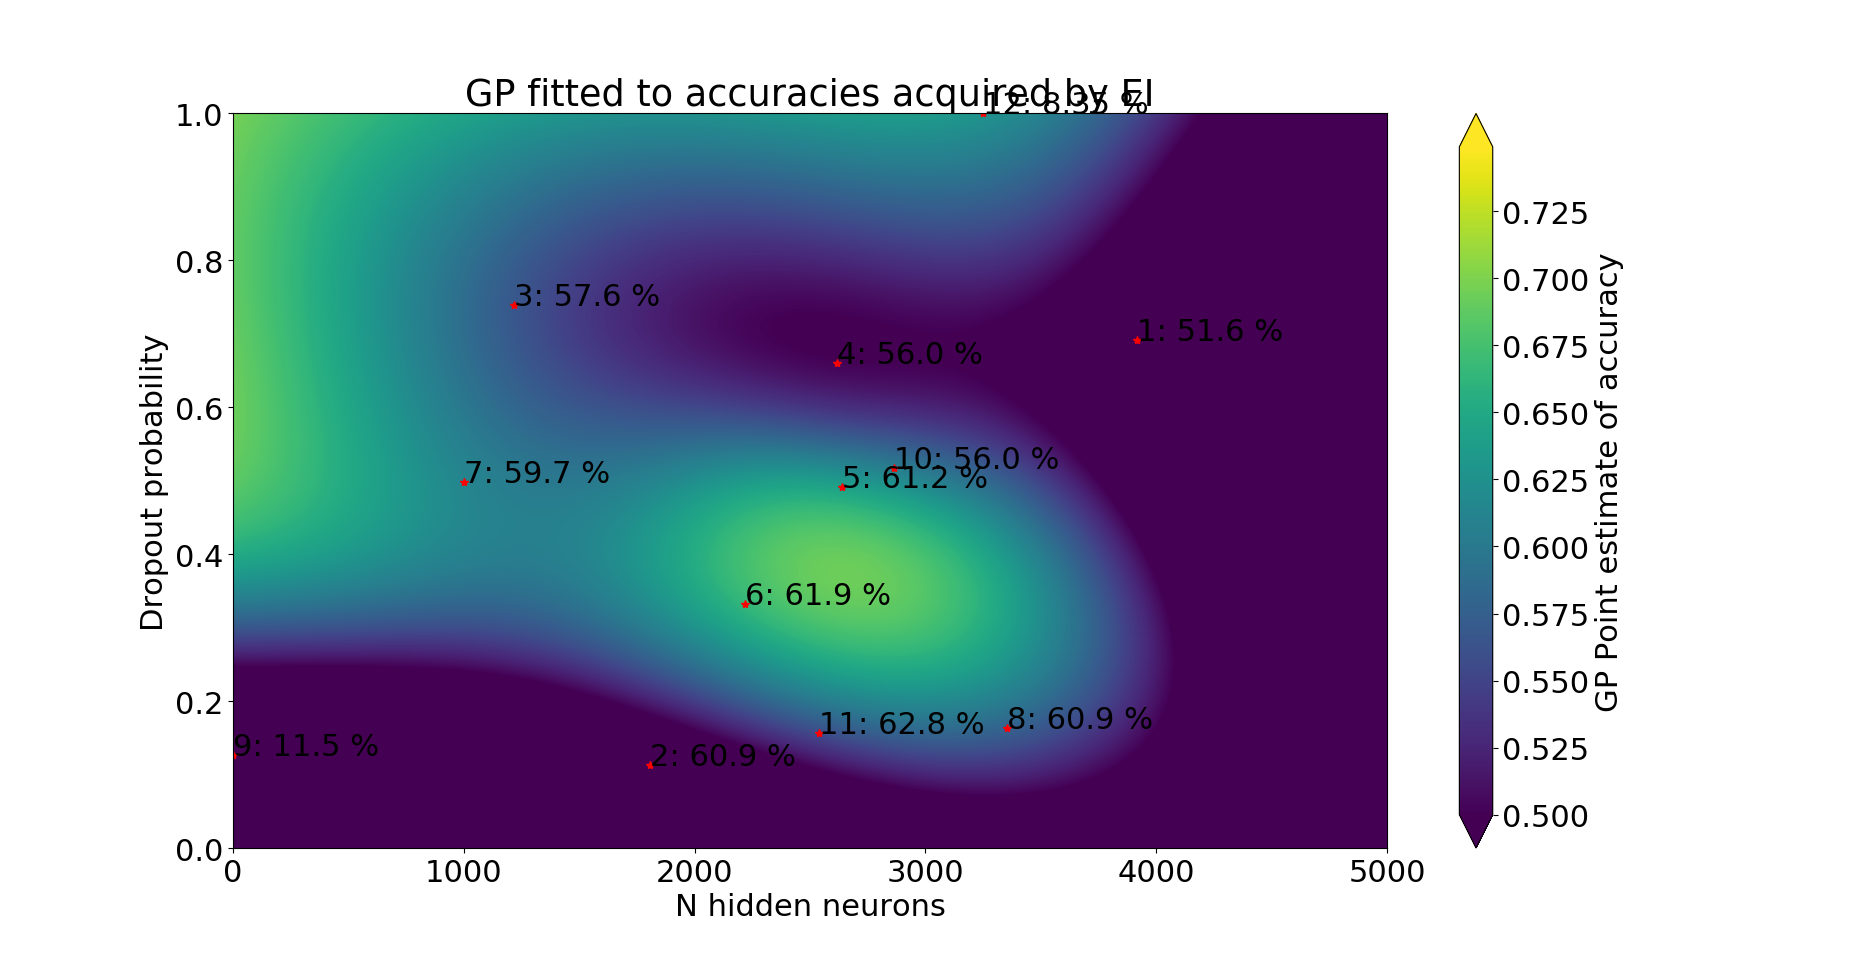
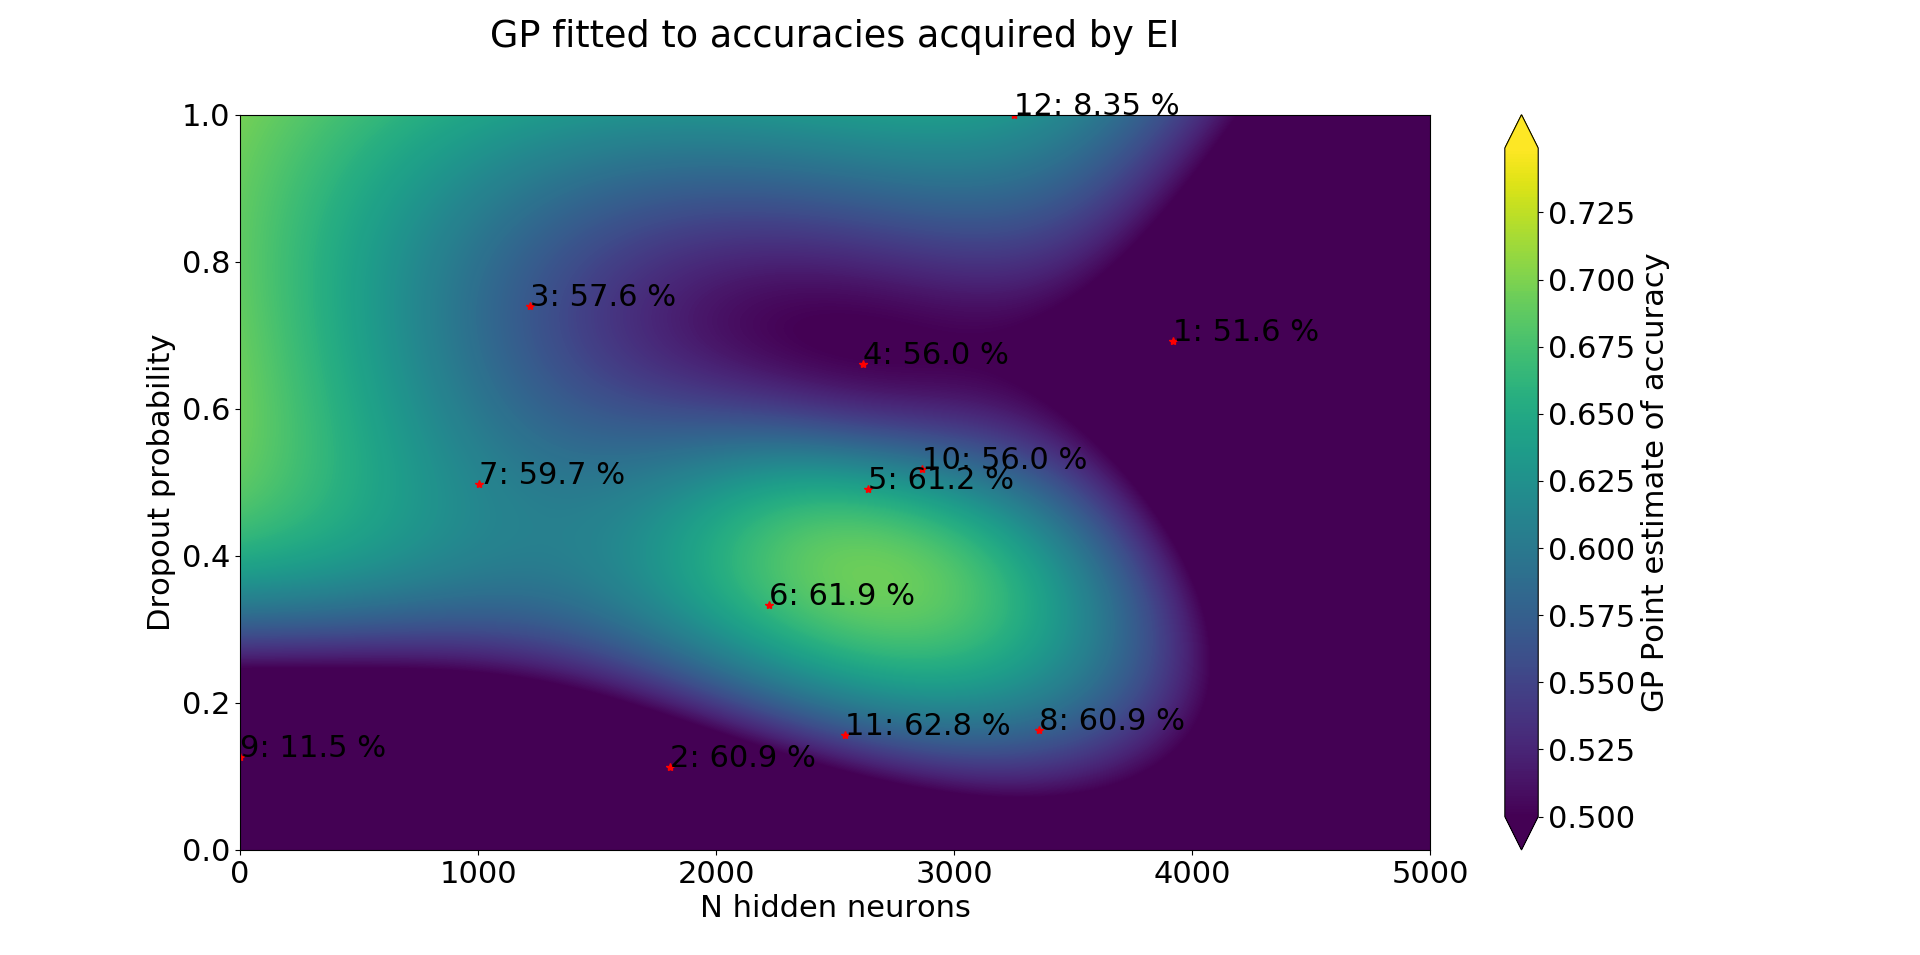
Diskussion + fix af billede

diff --git a/docs/project1.tex b/docs/project1.tex
@@ -20,7 +20,7 @@
 
 
 
-\title{Bayesian Optimization for Hyperparameter Tuning in the Fully Connected Layers of VGG16}
+\title{Bayesian Optimization for Hyperparameter Tuning in The Fully Connected Layers of VGG16}
 \author{Søren Winkel Holm\and Oskar Wiese\and Anders Henriksen\and Anne Agathe Pedersen}
 \date{\today}
 
@@ -241,7 +241,9 @@ Where $ \kappa $ is a user defined variable used to control the trade off betwee
 
 From the table seen in results \ref{resultater}, Bayesian optimization has proposed hyper-parameters that makes the accuracy higher than the hyper-parameters found using GridSearch. However, the difference in accuracies between the model proposed by Bayesian optimization and GridSearch are $ \Delta p = 0.011$. Too see if there is an actual significant difference between the accuracy of the models a McNemar test can be performed. This is beyond the scope of this project and will be left for future work. In reality a McNemar test would probably show that there is no significant difference between the accuracy of the two models. Hence, this shows that a random search grid and Bayseian Optimization finds hyper-parameters for VGG16 that are equally good.
 \\\\
-The results discovered in this project prove that Bayesian Optimization can indeed be used for hyper-parameter tuning and is faster than Grid Search. The advantage of Bayesian Optimization is the fact, that it does not explore parts of the parameter space because it believes these areas does not contain parameters that maximizes the accuracy of VGG16. This fact limits the amount of time used for training the model. 
+When using the Bayesian Optimization with GPyOpt, the first five iterations are purely exploration runs. Which means, that in this project Bayesian Optimization only have seven iterations to choose the right direction in the parameter space to find the optimal parameters for VGG16. Due to the short amount of training time used in this project, an emerged challenge is to find parameters that makes VGG16 converge fast. However, this is not necessarily the optimal way of finding parameters that yields the highest possible accuracy of the network, as it is possible that there exists parameters that requires longer training for VGG16 to converge.
+\\\\
+The results discovered in this project shows that Bayesian Optimization can be used for hyper-parameter tuning. The advantage of Bayesian Optimization compared to GridSearch, is that Bayesian Optimaztion do not need to explore the whole parameter space because it believes certain areas do not contain parameters that maximizes the accuracy of VGG16. This limits the amount of time used for tuning the parameters of the the model compared to GridSearch which in turn searches the whole parameter space.
 
 \section{References}
 \url{https://gpyopt.readthedocs.io/en/latest/index.html}

diff --git a/src/gp_fitting.py b/src/gp_fitting.py
@@ -101,7 +101,7 @@ if __name__ == "__main__":
 			ax.annotate(f'{j+1}: {-Y[j][0]*100:.3} %', (X[j,0]*5000, X[j,1]))
 
 
-		ax.set_title(f'GP fitted to accuracies acquired by {acqs_str[acq_idx]}')
+		ax.set_title(f'GP fitted to accuracies acquired by {acqs_str[acq_idx]}',y=1.08)
 		ax.set_xlabel('N hidden neurons')
 		ax.set_ylabel('Dropout probability')
 		
